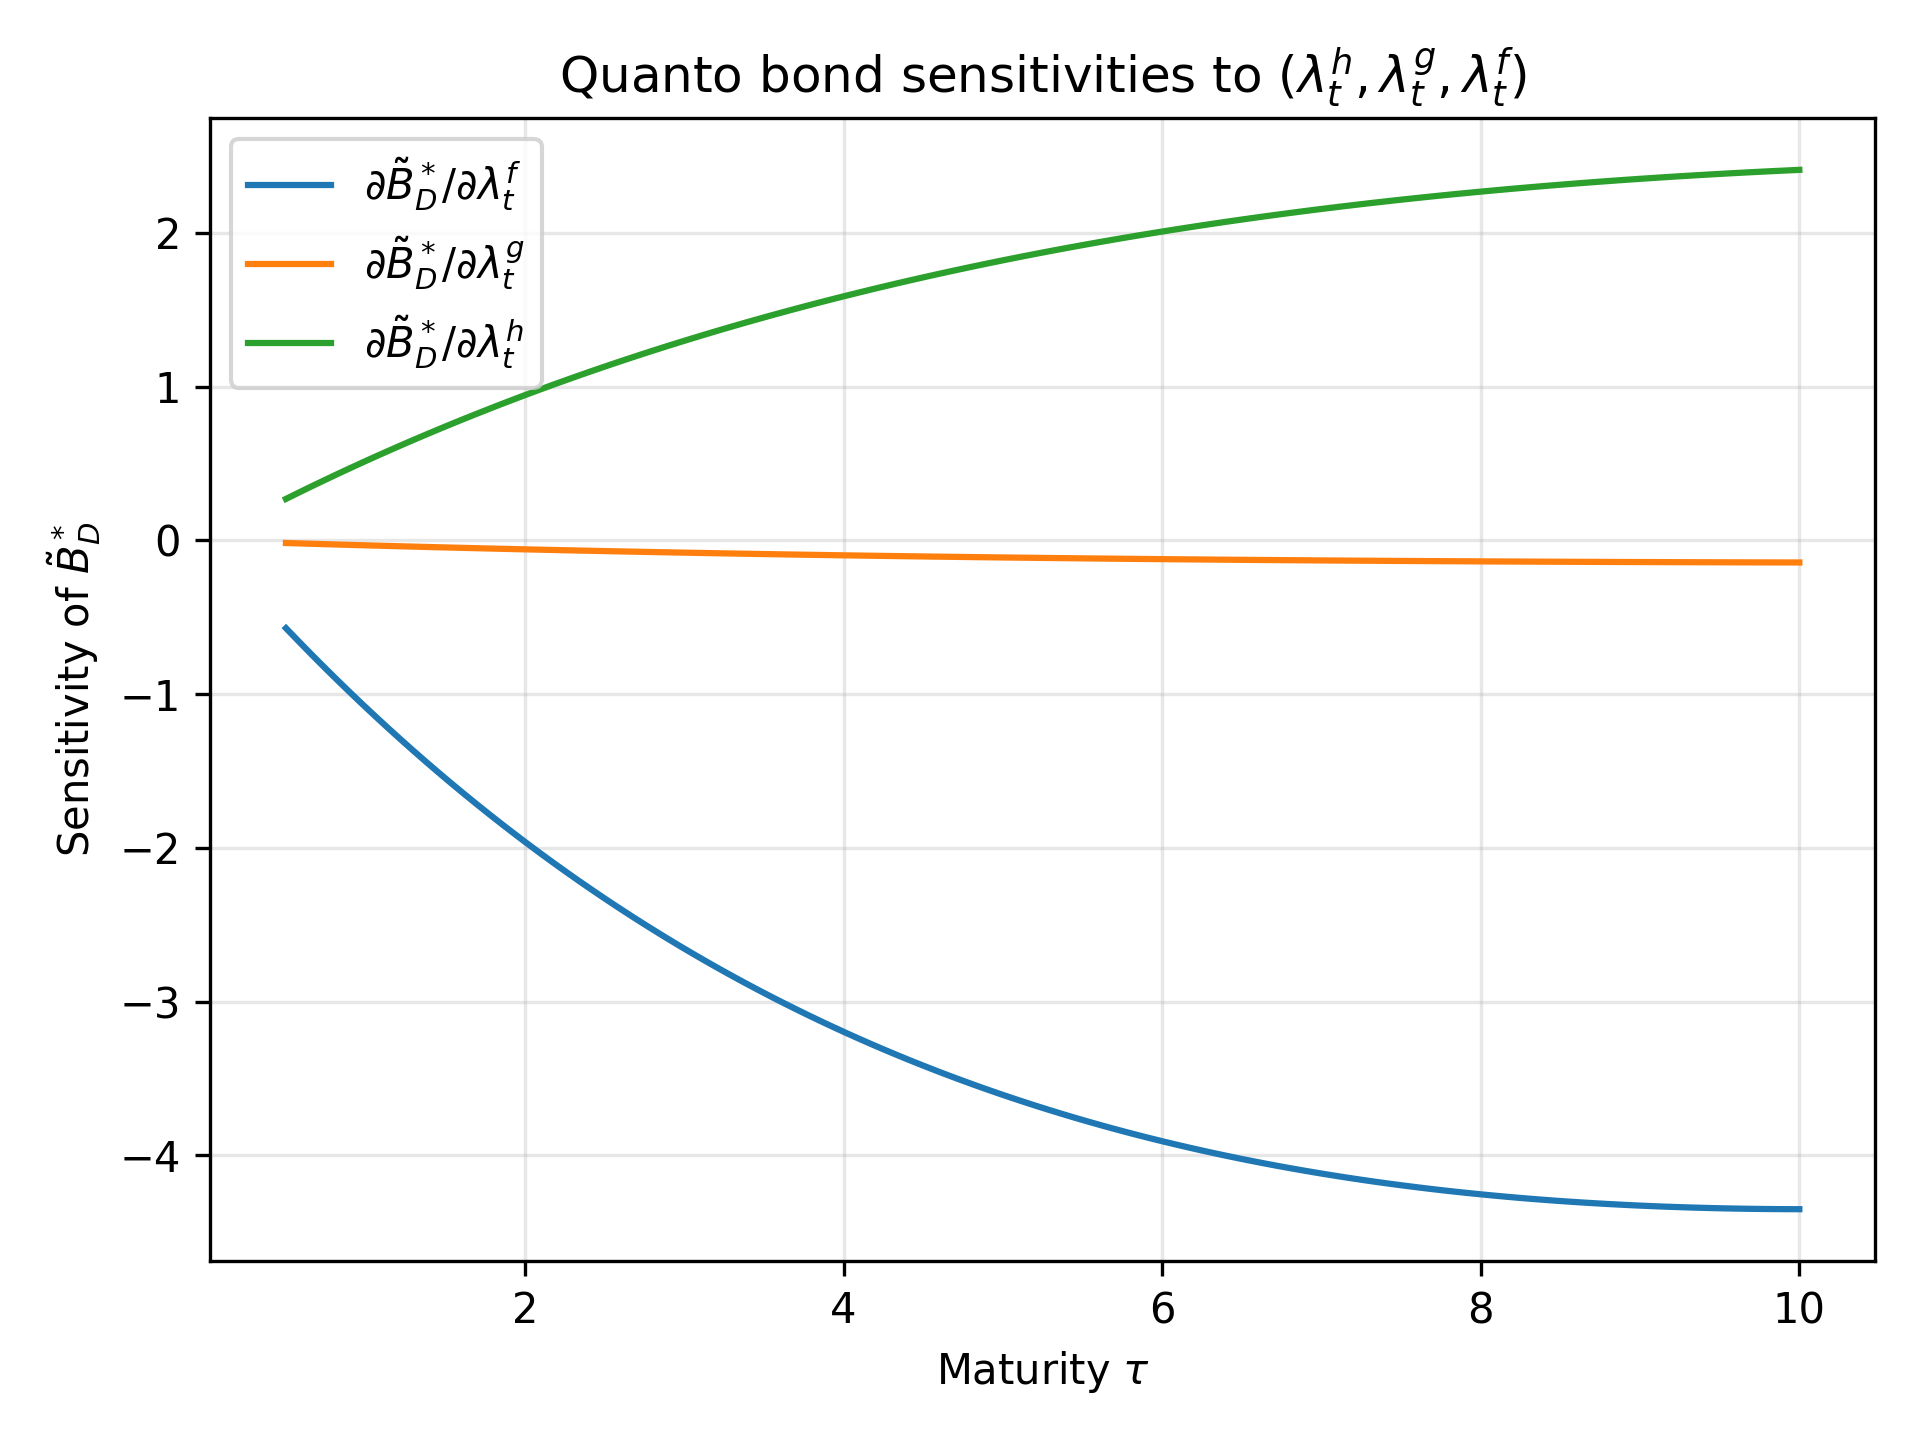
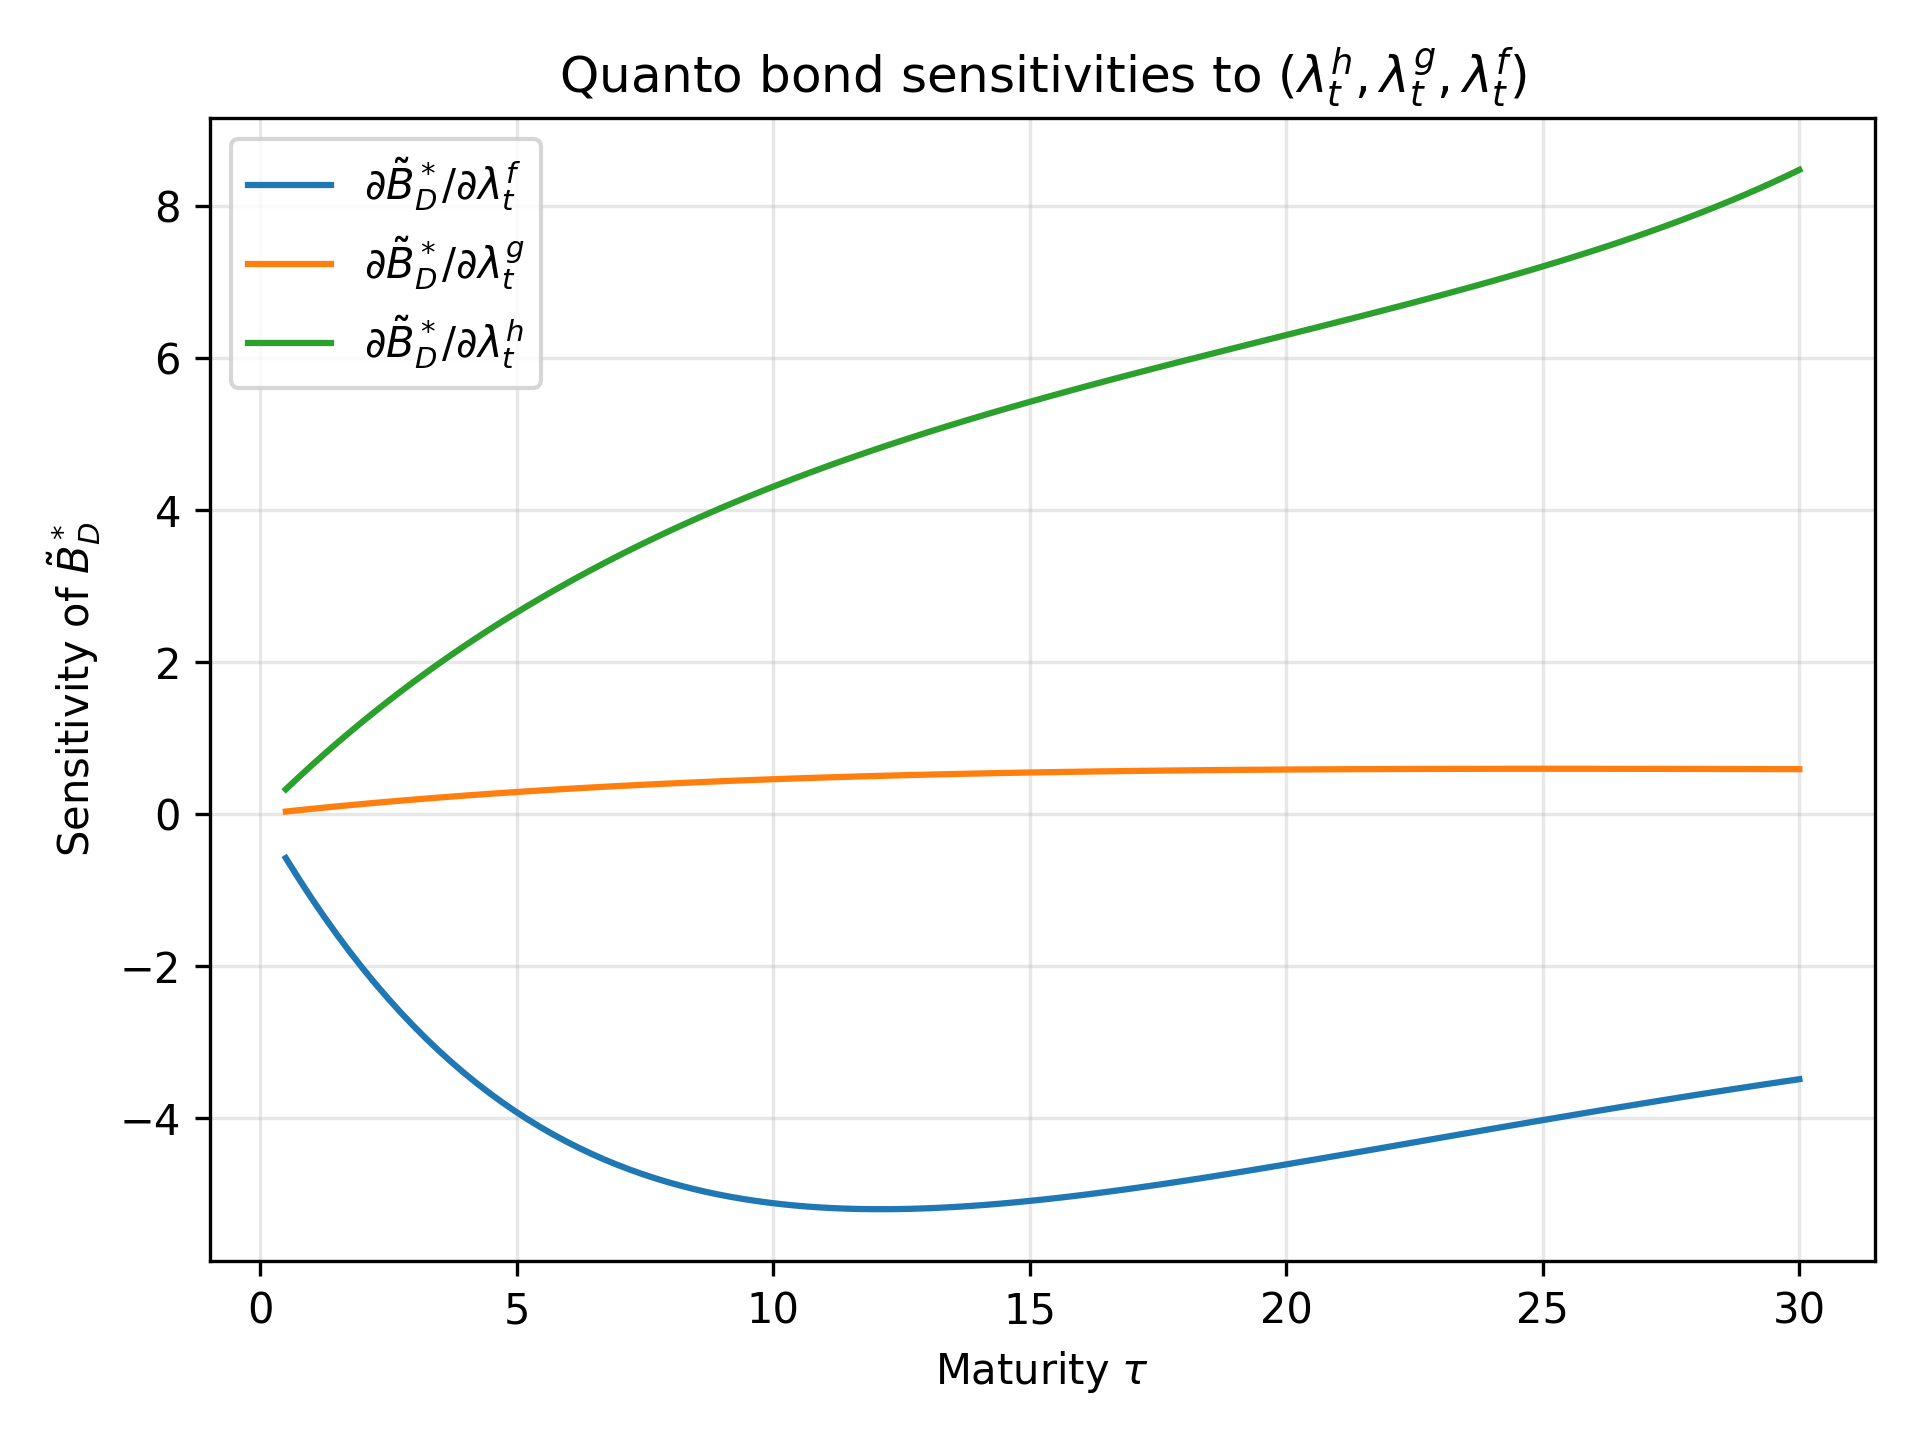
fix math

diff --git a/draft4/ode_solver.py b/draft4/ode_solver.py
@@ -2,6 +2,7 @@ import numpy as np
 from scipy.integrate import solve_ivp
 from params.modelparams import DisasterModelParams
 
+
 def _solve_ode(ode, tau, y0):
     sol = solve_ivp(
         ode,
@@ -12,6 +13,7 @@ def _solve_ode(ode, tau, y0):
         atol=1e-12,
     )
     return sol.y[:, -1]
+
 
 def get_riskfree_coeffs(params: DisasterModelParams, tau: float):
     params.compute_b_sdf()
@@ -41,6 +43,7 @@ def get_riskfree_coeffs(params: DisasterModelParams, tau: float):
     a_tau, b_tau = _solve_ode(ode, tau, [0.0, 0.0])
     return a_tau, b_tau
 
+
 def get_domestic_riskfree_coeffs(params: DisasterModelParams, tau: float):
     params.compute_b_sdf()
     bbar = params.b_sdf
@@ -69,20 +72,25 @@ def get_domestic_riskfree_coeffs(params: DisasterModelParams, tau: float):
     a_tau, b_tau = _solve_ode(ode, tau, [0.0, 0.0])
     return a_tau, b_tau
 
-def hazard_affine_coeffs(params: DisasterModelParams):
-    params.compute_b_sdf()
-    bbar = params.b_sdf
-    C = np.exp(bbar * params.v - params.gamma * params.Z) * (np.exp(params.Z) - 1.0)
 
+def hazard_affine_coeffs(params: DisasterModelParams):
+    """Affine coefficients in r + (1-R)h.
+
+    A0 is the constant term. The returned Af and Ag are the hazard-load pieces
+    that remain in the Riccati ODE after collecting terms, i.e. (1-R)eta_i.
+    This matches the corrected math where the risk-free K-term is not
+    double-counted.
+    """
     A0 = (
         params.beta
         + params.mu
         - params.gamma * params.sigma_c ** 2
         + (1.0 - params.R) * params.h0_star
     )
-    Af = C + (1.0 - params.R) * params.eta1
-    Ag = C + (1.0 - params.R) * params.eta2
+    Af = (1.0 - params.R) * params.eta1
+    Ag = (1.0 - params.R) * params.eta2
     return A0, Af, Ag
+
 
 def get_defaultable_coeffs(params: DisasterModelParams, tau: float):
     params.compute_b_sdf()
@@ -98,7 +106,7 @@ def get_defaultable_coeffs(params: DisasterModelParams, tau: float):
             + bbar * params.sigma_lambda ** 2 * b_f
             + 0.5 * params.sigma_lambda ** 2 * b_f ** 2
             + C * (np.exp(b_f * params.v) - np.exp(params.Z))
-            - (1.0 - params.R) * params.eta1
+            - Af
         )
 
         db_g = (
@@ -106,7 +114,7 @@ def get_defaultable_coeffs(params: DisasterModelParams, tau: float):
             + bbar * params.sigma_lambda ** 2 * b_g
             + 0.5 * params.sigma_lambda ** 2 * b_g ** 2
             + C * (np.exp(b_g * params.v) - np.exp(params.Z))
-            - (1.0 - params.R) * params.eta2
+            - Ag
         )
 
         da = params.kappa * (
@@ -121,21 +129,26 @@ def get_defaultable_coeffs(params: DisasterModelParams, tau: float):
     a_tau, b_f_tau, b_g_tau = _solve_ode(ode, tau, [0.0, 0.0, 0.0])
     return a_tau, b_f_tau, b_g_tau
 
-def quanto_affine_coeffs(params: DisasterModelParams):
-    params.compute_b_sdf()
-    bbar = params.b_sdf
-    C = np.exp(bbar * params.v - params.gamma * params.Z) * (np.exp(params.Z) - 1.0)
 
+def quanto_affine_coeffs(params: DisasterModelParams):
+    """Affine coefficients for the quanto bond.
+
+    Ah_q, Ag_q, Af_q are the residual hazard-load pieces in the corrected ODEs:
+      h: 0,
+      g: (1-R)eta_g,
+      f: (1-R)eta_f.
+    """
     A0_q = (
         params.beta
         + params.mu
         - params.gamma * params.sigma_c ** 2
         + (1.0 - params.R) * params.h0_star
     )
-    Ah_q = C
-    Ag_q = C + (1.0 - params.R) * params.eta2
+    Ah_q = 0.0
+    Ag_q = (1.0 - params.R) * params.eta2
     Af_q = (1.0 - params.R) * params.eta1
-    return A0_q, Ah_q, Ag_q, Af_q, C
+    return A0_q, Ah_q, Ag_q, Af_q
+
 
 def get_quanto_defaultable_coeffs(params: DisasterModelParams, tau: float):
     params.compute_b_sdf()
@@ -144,7 +157,8 @@ def get_quanto_defaultable_coeffs(params: DisasterModelParams, tau: float):
     kappa = params.kappa
     v = params.v
 
-    A0_q, Ah_q, Ag_q, Af_q, C = quanto_affine_coeffs(params)
+    A0_q, Ah_q, Ag_q, Af_q = quanto_affine_coeffs(params)
+    C = np.exp(bbar * v - params.gamma * params.Z)
 
     def ode(tau_local, y):
         a, b_h, b_g, b_f = y
@@ -152,16 +166,15 @@ def get_quanto_defaultable_coeffs(params: DisasterModelParams, tau: float):
         db_h = (
             (bbar * sigma_l ** 2 - kappa - v) * b_h
             + 0.5 * sigma_l ** 2 * b_h ** 2
-            + np.exp(bbar * v - params.gamma * params.Z)
-            * (np.exp(b_h * v) - np.exp(params.Z))
+            + C * (np.exp(b_h * v) - np.exp(params.Z))
+            - Ah_q
         )
 
         db_g = (
             (bbar * sigma_l ** 2 - kappa - v) * b_g
             + 0.5 * sigma_l ** 2 * b_g ** 2
-            + np.exp(bbar * v - params.gamma * params.Z)
-            * (np.exp(b_g * v) - np.exp(params.Z))
-            - (1.0 - params.R) * params.eta2
+            + C * (np.exp(b_g * v) - np.exp(params.Z))
+            - Ag_q
         )
 
         db_f = (
@@ -187,6 +200,8 @@ def get_quanto_defaultable_coeffs(params: DisasterModelParams, tau: float):
     )
     return a_tau, b_h_tau, b_g_tau, b_f_tau
 
+
+# blow-up utilities ---------------------------------------------------
 
 def _hit_time_to_level(F, b0, level, tau_max, method="Radau"):
     def event(t, y):
@@ -243,7 +258,6 @@ def _estimate_blowup_time_riskfree(params: DisasterModelParams, domestic=False, 
     params.compute_b_sdf()
     bbar = params.b_sdf
     C = np.exp(bbar * params.v - params.gamma * params.Z)
-    lam_bar_total = (params.lam_bar_h + params.lam_bar_g) if domestic else (params.lam_bar_f + params.lam_bar_g)
 
     def F(b):
         return (
@@ -260,7 +274,7 @@ def _estimate_blowup_time_defaultable(params: DisasterModelParams, tau_max=500.0
     params.compute_b_sdf()
     bbar = params.b_sdf
     C = np.exp(bbar * params.v - params.gamma * params.Z)
-    A0, Af, Ag = hazard_affine_coeffs(params)
+    _, Af, Ag = hazard_affine_coeffs(params)
 
     def F_f(b):
         return (
@@ -268,7 +282,7 @@ def _estimate_blowup_time_defaultable(params: DisasterModelParams, tau_max=500.0
             + bbar * params.sigma_lambda ** 2 * b
             + 0.5 * params.sigma_lambda ** 2 * b ** 2
             + C * (np.exp(b * params.v) - np.exp(params.Z))
-            - (1.0 - params.R) * params.eta1
+            - Af
         )
 
     def F_g(b):
@@ -277,7 +291,7 @@ def _estimate_blowup_time_defaultable(params: DisasterModelParams, tau_max=500.0
             + bbar * params.sigma_lambda ** 2 * b
             + 0.5 * params.sigma_lambda ** 2 * b ** 2
             + C * (np.exp(b * params.v) - np.exp(params.Z))
-            - (1.0 - params.R) * params.eta2
+            - Ag
         )
 
     est_f = _estimate_blowup_time_scalar_ode(F_f, b0=0.0, tau_max=tau_max, b_danger=200.0, b_big=4000.0)
@@ -298,21 +312,23 @@ def _estimate_blowup_time_quanto(params: DisasterModelParams, tau_max=500.0):
     sigma_l = params.sigma_lambda
     kappa = params.kappa
     v = params.v
-    A0_q, Ah_q, Ag_q, Af_q, C0 = quanto_affine_coeffs(params)
+    _, Ah_q, Ag_q, Af_q = quanto_affine_coeffs(params)
+    C = np.exp(bbar * v - params.gamma * params.Z)
 
     def F_h(b):
         return (
             (bbar * sigma_l ** 2 - kappa - v) * b
             + 0.5 * sigma_l ** 2 * b ** 2
-            + np.exp(bbar * v - params.gamma * params.Z) * (np.exp(b * v) - np.exp(params.Z))
+            + C * (np.exp(b * v) - np.exp(params.Z))
+            - Ah_q
         )
 
     def F_g(b):
         return (
             (bbar * sigma_l ** 2 - kappa - v) * b
             + 0.5 * sigma_l ** 2 * b ** 2
-            + np.exp(bbar * v - params.gamma * params.Z) * (np.exp(b * v) - np.exp(params.Z))
-            - (1.0 - params.R) * params.eta2
+            + C * (np.exp(b * v) - np.exp(params.Z))
+            - Ag_q
         )
 
     def F_f(b):

diff --git a/draft3/plots.py b/draft3/plots.py
@@ -114,7 +114,7 @@ def get_defaultable_coeffs(params: DisasterModelParams, tau: float):
             + bbar * params.sigma_lambda ** 2 * b_f
             + 0.5 * params.sigma_lambda ** 2 * b_f ** 2
             + C * (np.exp(b_f * params.v) - np.exp(params.Z))
-            - Af
+            - (1.0 - params.R) * params.eta1
         )
 
         db_g = (
@@ -122,7 +122,7 @@ def get_defaultable_coeffs(params: DisasterModelParams, tau: float):
             + bbar * params.sigma_lambda ** 2 * b_g
             + 0.5 * params.sigma_lambda ** 2 * b_g ** 2
             + C * (np.exp(b_g * params.v) - np.exp(params.Z))
-            - Ag
+            - (1.0 - params.R) * params.eta2
         )
 
         da = params.kappa * (
@@ -173,7 +173,6 @@ def get_quanto_defaultable_coeffs(params: DisasterModelParams, tau: float):
             + 0.5 * sigma_l ** 2 * b_h ** 2
             + np.exp(bbar * v - params.gamma * params.Z)
             * (np.exp(b_h * v) - np.exp(params.Z))
-            - Ah_q
         )
 
         db_g = (
@@ -181,7 +180,7 @@ def get_quanto_defaultable_coeffs(params: DisasterModelParams, tau: float):
             + 0.5 * sigma_l ** 2 * b_g ** 2
             + np.exp(bbar * v - params.gamma * params.Z)
             * (np.exp(b_g * v) - np.exp(params.Z))
-            - Ag_q
+            - (1.0 - params.R) * params.eta2
         )
 
         db_f = (
@@ -290,7 +289,7 @@ def compute_yield_term_structures(params, tau_grid, lam_h, lam_g, lam_f):
 # ---------------------------------------------------------------------
 
 def plot_bond_price_term_structures(params):
-    tau_grid = np.linspace(0.25, 10.0, 120)
+    tau_grid = np.linspace(0.25, 30.0, 120)
     lam_h, lam_g, lam_f = params.lam_bar_h, params.lam_bar_g, params.lam_bar_f
 
     B_star, B_dom, B_D_star, B_quanto = compute_bond_term_structures(
@@ -375,7 +374,7 @@ def plot_loading_functions(params):
 # ---------------------------------------------------------------------
 
 def plot_yield_and_spread_term_structures(params):
-    tau_grid = np.linspace(0.5, 10.0, 120)
+    tau_grid = np.linspace(0.5, 30.0, 120)
     lam_h, lam_g, lam_f = params.lam_bar_h, params.lam_bar_g, params.lam_bar_f
 
     curves = compute_yield_term_structures(params, tau_grid, lam_h, lam_g, lam_f)
@@ -435,7 +434,7 @@ def compute_sensitivities_vs_tau(params, tau_grid, lam_h, lam_g, lam_f):
 
 
 def plot_sensitivities(params):
-    tau_grid = np.linspace(0.5, 10.0, 120)
+    tau_grid = np.linspace(0.5, 30.0, 120)
     lam_h, lam_g, lam_f = params.lam_bar_h, params.lam_bar_g, params.lam_bar_f
 
     dBD_dlamf, dBq_dlamf, dBq_dlamg, dBq_dlamh = compute_sensitivities_vs_tau(
@@ -482,7 +481,7 @@ def plot_sensitivities(params):
 def plot_quanto_basis_profiles(params):
     lam_h, lam_g, lam_f = params.lam_bar_h, params.lam_bar_g, params.lam_bar_f
 
-    tau_grid = np.linspace(0.5, 10.0, 120)
+    tau_grid = np.linspace(0.5, 30.0, 120)
     curves = compute_yield_term_structures(params, tau_grid, lam_h, lam_g, lam_f)
     q_tilde = curves["q_tilde"]
 

diff --git a/draft3/plots_animated.py b/draft3/plots_animated.py
@@ -117,7 +117,7 @@ def get_defaultable_coeffs(params: DisasterModelParams, tau: float):
             + bbar * params.sigma_lambda**2 * b_f
             + 0.5 * params.sigma_lambda**2 * b_f**2
             + C * (np.exp(b_f * params.v) - np.exp(params.Z))
-            - Af
+            - (1.0 - params.R) * params.eta1
         )
 
         db_g = (
@@ -125,7 +125,7 @@ def get_defaultable_coeffs(params: DisasterModelParams, tau: float):
             + bbar * params.sigma_lambda**2 * b_g
             + 0.5 * params.sigma_lambda**2 * b_g**2
             + C * (np.exp(b_g * params.v) - np.exp(params.Z))
-            - Ag
+            - (1.0 - params.R) * params.eta2
         )
 
         da = params.kappa * (
@@ -176,7 +176,6 @@ def get_quanto_defaultable_coeffs(params: DisasterModelParams, tau: float):
             + 0.5 * sigma_l**2 * b_h**2
             + np.exp(bbar * v - params.gamma * params.Z)
             * (np.exp(b_h * v) - np.exp(params.Z))
-            - Ah_q
         )
 
         db_g = (
@@ -184,7 +183,7 @@ def get_quanto_defaultable_coeffs(params: DisasterModelParams, tau: float):
             + 0.5 * sigma_l**2 * b_g**2
             + np.exp(bbar * v - params.gamma * params.Z)
             * (np.exp(b_g * v) - np.exp(params.Z))
-            - Ag_q
+            - (1.0 - params.R) * params.eta2
         )
 
         db_f = (
